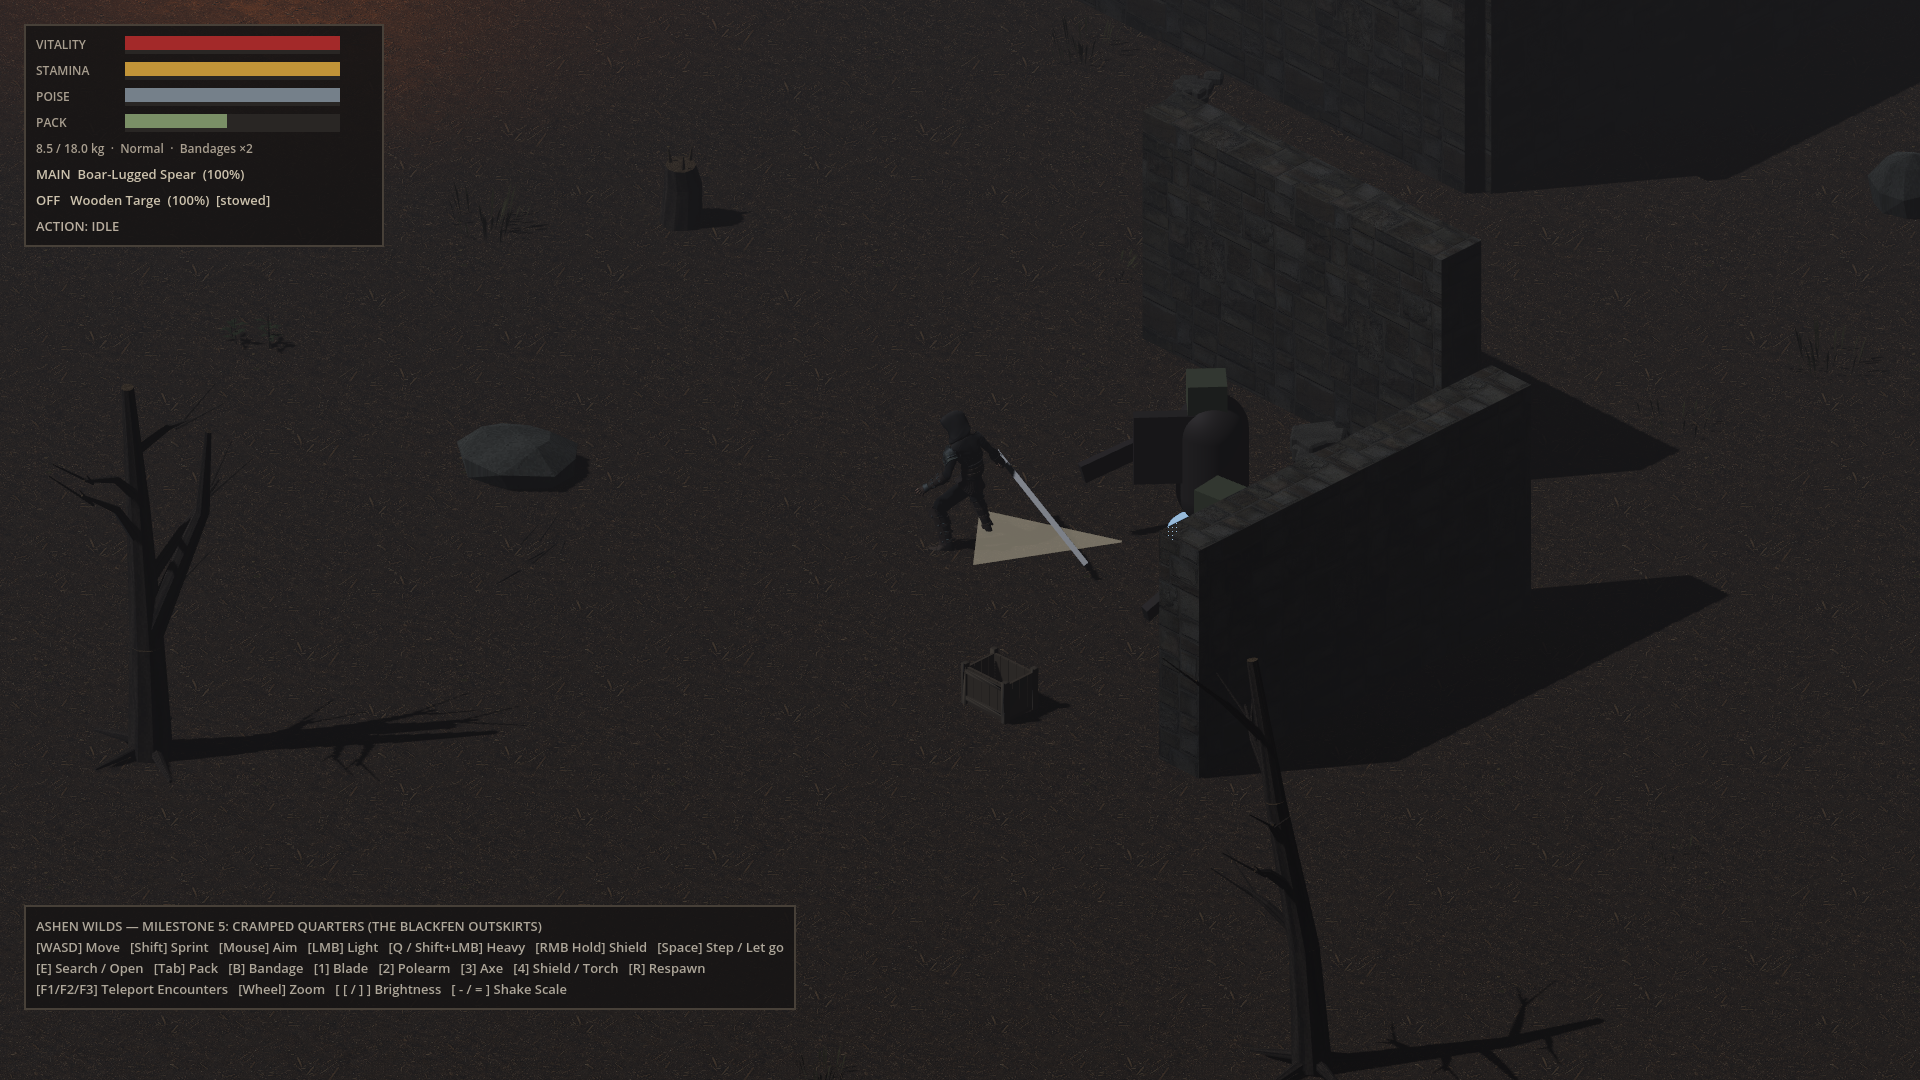
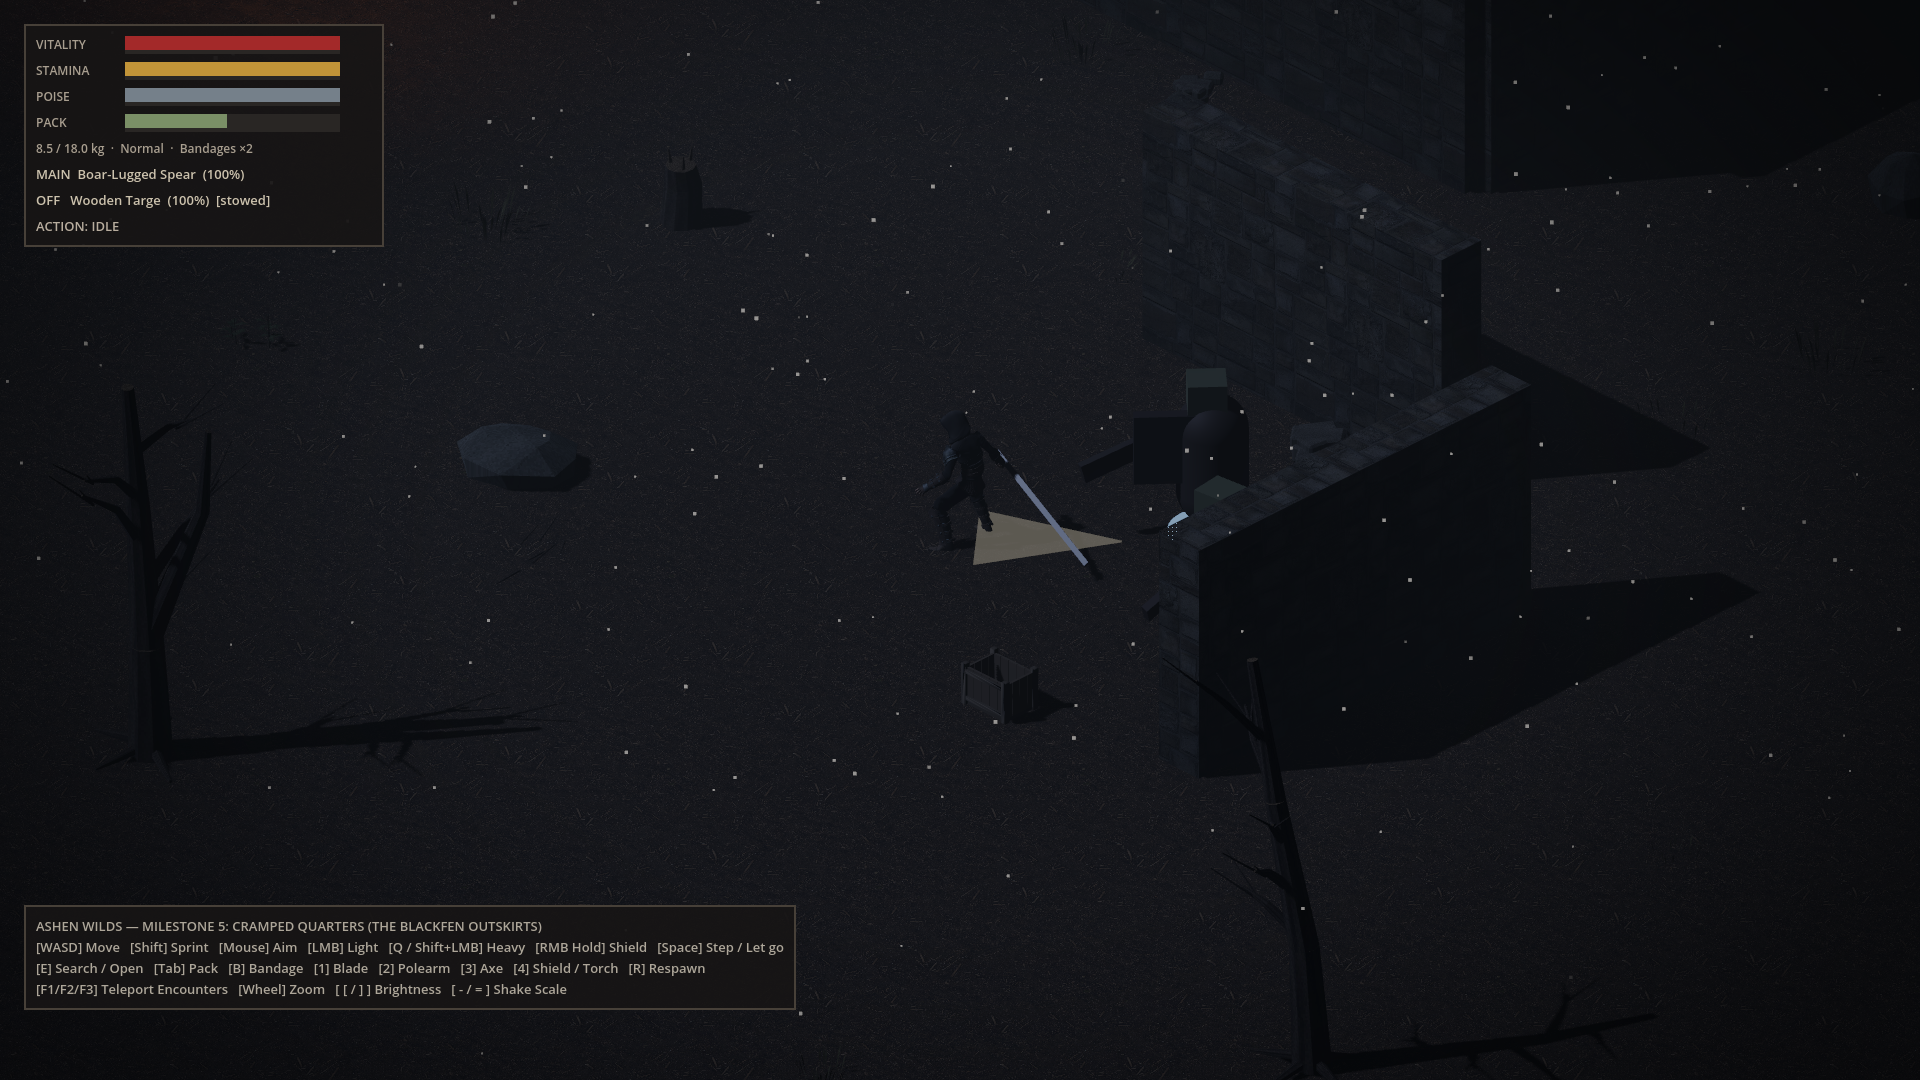
Look and feel 3: night lighting, ground mist, glow, falling ash, vignette, fire flicker
- The sun becomes a cold Moon; blue-grey ambient; a desaturated, slightly contrasty grade, so
  fire and torchlight read as warm pools. Distance fog plus a pale low ground mist. Glow on
  emissive flames and embers; SSAO on desktop. All of it renders in the browser's Compatibility
  renderer except SSAO.
- AshFall: 420 flakes in one MultiMesh, placed and animated in shaders/ash_fall.gdshader, fixed
  in world space and wrapping around the survivor (not particles: renders in software shots and
  the browser).
- Vignette: CanvasLayer 0 under the HUD, ignores the mouse.
- FlickerLight: the shelter fire breathes on deterministic layered sines; the embers follow.
- 6 new checks (200); README screenshots re-rendered; docs and evidence updated.

Claude-Session: https://claude.ai/code/session_01UK584L4ivuHvXg3V6GYsv2

diff --git a/CLAUDE.md b/CLAUDE.md
@@ -48,7 +48,7 @@ $GODOT --headless --path . --quit-after 1200 2>&1 \
 
 **Expected headless noise. Ignore it:** `Parameter "m" is null` / `mesh_get_surface_count` (dummy renderer) and `ObjectDB instances leaked at exit` (an `AudioStreamGeneratorPlayback` under the dummy audio driver). Neither happens with a real renderer or sound card. **Exported release builds** also log one `Attempt to disconnect a nonexistent connection from 'NetMain' ... 'tree_exited'` line per process at shutdown after RPCs were exchanged; the editor binary never does, and it is unaffected by whether the peer is detached. Engine teardown noise, verified 2026-11-03; anything else in a log is a bug.
 
-Run the suite twice after timing-sensitive changes to catch flakiness. Currently: **194 checks, 0 failures**. The environment kit has its own collision suites, `tests/test_env006_collisions.gd` to `test_env009_collisions.gd` (exit code 1 on any failure).
+Run the suite twice after timing-sensitive changes to catch flakiness. Currently: **200 checks, 0 failures**. The environment kit has its own collision suites, `tests/test_env006_collisions.gd` to `test_env009_collisions.gd` (exit code 1 on any failure).
 
 ```bash
 # 5. Networked courtyard: a headless server and driven headless clients as separate processes on loopback.
@@ -90,11 +90,12 @@ scripts/net/        net_main.gd (session: roles, every RPC, the request pipeline
 scripts/combat/     hitbox_component, hurtbox_component, encounter_coordinator (attack tokens), wall_deflection (shared clang rules)
 scripts/data/       weapon_data, combat_payload, item_data, item_instance, item_database (all items + loot tables)
 scripts/inventory/  inventory.gd (stacks, weight, encumbrance, equip slots)
-scripts/world/      lootable.gd (crates, corpses, ground piles, lodged weapons), set_dressing.gd (the owner's kit placed as decoration; container models)
+scripts/world/      lootable.gd (crates, corpses, ground piles, lodged weapons), set_dressing.gd (the owner's kit placed as decoration; container models),
+                    ash_fall.gd (shader-driven falling ash around the survivor), flicker_light.gd (the shelter fire's breathing light)
 scripts/player/     player_controller.gd (state machine, the largest file), survivor_model.gd (the animated Quaternius body and hand sockets)
 scripts/enemies/    enemy_goblin_scavenger, enemy_ork_warrior, enemy_ogre_brute
-scripts/ui/         tactical_hud.gd, inventory_ui.gd
-shaders/            foreground_cutaway.gdshader (Bayer-dither cutaway)
+scripts/ui/         tactical_hud.gd, inventory_ui.gd, vignette.gd (screen-edge shade, CanvasLayer 0 under the HUD)
+shaders/            foreground_cutaway.gdshader (Bayer-dither cutaway, world-space photo textures), ash_fall.gdshader (falling ash)
 tests/smoke_test.gd headless regression suite
 art/quaternius/     the survivor (Ranger outfit), the two animation libraries, recoloured textures, licences (README)
 art/ambientcg/      photo textures (mud, stone, planks) for the level and props (README)
@@ -115,6 +116,7 @@ Physics layers: 1 Environment · 2 PlayerBody · 3 EnemyBody · 4 PlayerHurtbox 
 - **Deflection:** `WeaponData.is_thrust(heavy)` marks each player stroke. Sweeps raycast their arc (layer 1) through `WallDeflection.sweep_obstruction()` when they go active, and a hit enters RECOIL instead of opening the hitbox. Thrusts never clang. Enemies use the same helper: the Ork's opening slash and the Ogre's sweep clang into an `AIState.RECOIL` that counts as staggered; the Goblin's jab (`attack_is_thrust`), the Ork's chop and the Ogre's slam never clang.
 - **Lodging:** a heavy confirmed hit on a target whose `is_dead()` or `is_staggered()` is true rolls `heavy_lodge_chance`. Every enemy class must implement both methods.
 - **Survivor look:** `SurvivorModel` is presentation only. `_update_animation()` picks a clip from the action state; timed states (attacks, dodge, stagger, recoil) stretch their clip to the state's own duration, so the simulation sets the timing and the animation follows. The weapon and torch hang off the model's hand sockets (`right_socket`, `left_socket`, whose -Z points out of the fist), the shield off `shield_mount` on the back of the left hand; hitboxes, collision and aim stay on the controller, so a different mesh on the same rig changes nothing in play. Godot strips a `_Loop` suffix from imported clip names (`Idle_Loop` is `Idle`). During a dodge the model turns to face the roll.
+- **Atmosphere:** `_build_atmosphere_and_lighting()` sets the night: cold `Moon` light, blue-grey ambient, distance fog plus ground mist (`fog_height`), glow on emissive flames, and a desaturated, slightly contrasty adjustment. All of it works in the browser's Compatibility renderer except SSAO (desktop only). The brightness setting still moves `tonemap_exposure`. A near-black fog colour darkens the ground under the mist; keep the mist colour pale.
 - **UI capture:** while the pack or loot window is open, `PlayerController.ui_capture` suppresses combat input. Any hit force-closes the windows.
 
 ## Conventions and pitfalls (learned the hard way)

diff --git a/docs/PRODUCTION.md b/docs/PRODUCTION.md
@@ -157,6 +157,35 @@ payload (§74).
 Durable state and presentation are already distinct (appendix §75): positions and the player table
 are durable, the turn animation and HUD messages are local.
 
+## Look and feel 3 — lighting and atmosphere: evidence (brief §24)
+
+**What changed.** The third and last look-and-feel slice, built only from features the browser's
+Compatibility renderer also draws (SSAO is the one exception; it is desktop-only and simply off
+there):
+- **Night grade.** The sun is now a cold `Moon` (blue-grey, dimmer, softer shadows), the ambient
+  light is blue-grey, and an adjustment drains saturation to 0.8 and lifts contrast a little, so
+  the fire and the torch read as warm pools in a cold yard.
+- **Mist.** Distance fog plus a low ground mist (`fog_height`), in a pale blue-grey. A first pass
+  used a near-black fog colour, which turned the misted ground almost black in the screenshots; it
+  was caught there and fixed.
+- **Glow** on emissive surfaces (the embers, flames), and **SSAO** contact shadows on desktop.
+- **Falling ash** (`AshFall`, `shaders/ash_fall.gdshader`): 420 flakes in one MultiMesh, placed and
+  animated in the shader, fixed in world space and wrapping in a box that follows the survivor.
+  Not particles, so it renders in software screenshots and in the browser. A first pass at 700
+  larger, brighter flakes read as a starfield; it was dimmed, shrunk and thinned.
+- **Vignette** (`Vignette`, CanvasLayer 0, under the HUD, ignores the mouse).
+- **Fire flicker** (`FlickerLight`): the shelter fire's energy and range breathe on layered sines
+  (deterministic), and the ember bed's glow follows it.
+
+**Tests (run in this container).** `tests/smoke_test.gd`: 200 passed, 0 failures (6 new: the night
+grade, a cold moon, the ash count and that it follows the survivor, the vignette under the HUD, the
+fire's flicker within its base energy). README screenshots re-rendered and looked at (twice; see
+the two fixes above); the web export renders the grade, mist, glow, ash and vignette in headless
+Chromium.
+
+**Not covered by headless tests.** How dark this is on the owner's screen (the in-game brightness
+keys still work), whether the ash reads as ash while moving, and the browser's frame rate.
+
 ## Look and feel 2b — the owner's kit dresses the yard: evidence (brief §24)
 
 **What.** The owner's environment kit (PR #14, made in a separate session) now dresses the

diff --git a/README.md b/README.md
@@ -5,8 +5,8 @@ Thirty years into the Smothering, you are a broken survivor scavenging the Black
 
 ![The Blackfen Ogre winds up a ground slam while the survivor holds a torch and broadaxe](docs/screenshots/06_ogre_lair.png)
 
-> **Status:** single-player prototype, Milestones 1–5 complete · verified on Godot 4.3-stable (Forward+) · **194/194** headless regression checks passing
-> Art is still mostly placeholder (primitive meshes, procedural audio) — systems first. The survivor is now a rigged, animated character: the Ranger from [Quaternius](https://quaternius.com)'s Modular Character Outfits with his Universal Animation Libraries (CC0), recoloured dark and dirty for the Blackfen and replaceable later. Walls, ground, roof and crates wear photo-scanned textures from [ambientCG](https://ambientcg.com) (CC0), and the yard is dressed with the project's own environment kit: crates and barrels, dead trees, rocks, ruins, fences and ground cover.
+> **Status:** single-player prototype, Milestones 1–5 complete · verified on Godot 4.3-stable (Forward+) · **200/200** headless regression checks passing
+> Art is still mostly placeholder (primitive meshes, procedural audio) — systems first. The survivor is now a rigged, animated character: the Ranger from [Quaternius](https://quaternius.com)'s Modular Character Outfits with his Universal Animation Libraries (CC0), recoloured dark and dirty for the Blackfen and replaceable later. Walls, ground, roof and crates wear photo-scanned textures from [ambientCG](https://ambientcg.com) (CC0), and the yard is dressed with the project's own environment kit: crates and barrels, dead trees, rocks, ruins, fences and ground cover. Nights are cold moonlight and low mist, with falling ash and warm, flickering firelight.
 >
 > **Play it:** [in the browser](https://dribblejerp-klunkdunker.github.io/Ashen-Wilds/) (the single-player prototype; click the game once so it gets the keyboard) · [downloads for Linux, Chromebook, Windows and the dedicated server](https://github.com/dribblejerp-KlunkDunker/Ashen-Wilds/releases/tag/playtest). Both are rebuilt from `main` on every merge. The two-player courtyard needs a download: browsers cannot use its network transport yet.
 >
